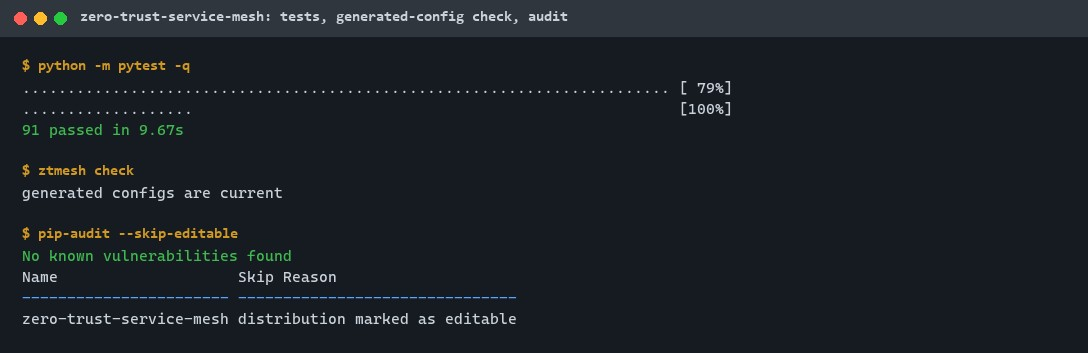
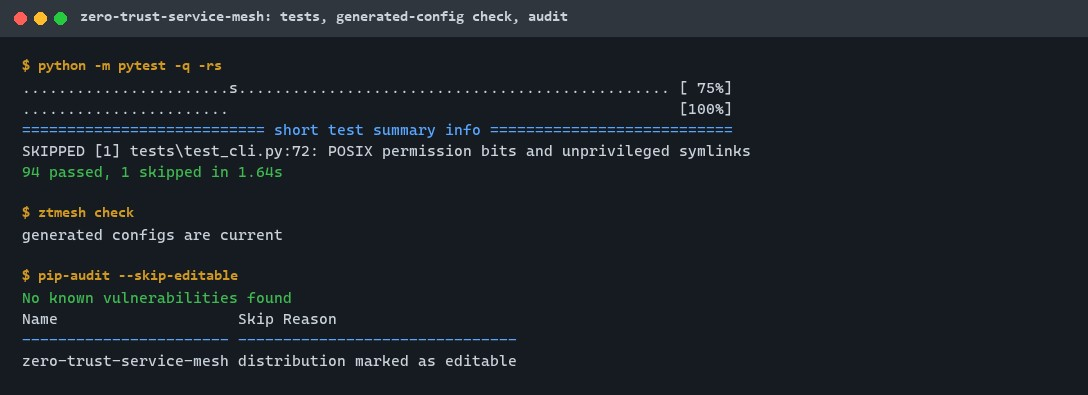
fix(security): random temp files for atomic writes and Envoy admin on a private Unix socket

diff --git a/tests/test_render.py b/tests/test_render.py
@@ -6,7 +6,13 @@ from typing import Any
 
 import pytest
 
-from zero_trust_service_mesh.envoy import AGENT_SOCKET, bootstrap, tls_context
+from zero_trust_service_mesh.envoy import (
+    ADMIN_DIR,
+    ADMIN_SOCKET,
+    AGENT_SOCKET,
+    bootstrap,
+    tls_context,
+)
 from zero_trust_service_mesh.k8s import IMAGES, spire_manifests, workload_manifests
 from zero_trust_service_mesh.mesh import load_spec
 from zero_trust_service_mesh.render import render, stale_files, write_all
@@ -75,7 +81,30 @@ def test_frontend_outbound_is_local_only_and_verifies_the_backend_id() -> None:
         "match_typed_subject_alt_names"
     ]
     assert [s["matcher"]["exact"] for s in sans] == ["spiffe://mesh.example/ns/demo/sa/backend"]
-    assert cfg["admin"]["address"]["socket_address"]["address"] == "127.0.0.1"
+
+
+def test_envoy_admin_is_a_unix_socket_only_the_envoy_container_mounts() -> None:
+    doc = workload_manifests(SPEC)
+    for w in SPEC.workloads:
+        admin = bootstrap(SPEC, w)["admin"]["address"]
+        assert "socket_address" not in admin, (
+            "admin must not listen on TCP (the app shares the pod network)"
+        )
+        assert admin["pipe"] == {"path": ADMIN_SOCKET, "mode": 0o600}
+        dep = next(
+            i for i in doc["items"] if i["kind"] == "Deployment" and i["metadata"]["name"] == w.name
+        )
+        for c in dep["spec"]["template"]["spec"]["containers"]:
+            mounts = {m["mountPath"] for m in c.get("volumeMounts", [])}
+            assert (ADMIN_DIR in mounts) == (c["name"] == "envoy"), c["name"]
+
+
+def test_backend_reports_the_peer_certificate_expiry_for_the_kind_check() -> None:
+    [listener] = bootstrap(SPEC, SPEC.get("backend"))["static_resources"]["listeners"]
+    hcm = listener["filter_chains"][0]["filters"][0]["typed_config"]
+    route = hcm["route_config"]["virtual_hosts"][0]["routes"][0]
+    headers = {h["header"]["key"]: h["header"]["value"] for h in route["response_headers_to_add"]}
+    assert headers["x-peer-cert-not-after"] == "%DOWNSTREAM_PEER_CERT_V_END%"
 
 
 def test_every_tls_context_and_sds_points_at_the_spire_agent_socket() -> None:

diff --git a/tests/test_cli.py b/tests/test_cli.py
@@ -1,6 +1,8 @@
 """The ztmesh command: exit codes, decision log and argument errors."""
 
 import json
+import os
+import stat
 from pathlib import Path
 
 import pytest
@@ -55,3 +57,26 @@ def test_write_atomic_cleans_up_when_the_rename_fails(tmp_path: Path) -> None:
     with pytest.raises(OSError):  # noqa: PT011 - the error differs by OS (IsADirectory, PermissionError)
         write_atomic(target, b"data")
     assert sorted(p.name for p in tmp_path.iterdir()) == ["dir"]
+
+
+def test_write_atomic_never_reuses_a_predictable_temp_name(tmp_path: Path) -> None:
+    target = tmp_path / "f.key"
+    planted = tmp_path / f".{target.name}.{os.getpid()}.tmp"
+    planted.write_bytes(b"planted")
+    write_atomic(target, b"secret", mode=0o600)
+    assert target.read_bytes() == b"secret"
+    assert planted.read_bytes() == b"planted"
+    assert sorted(p.name for p in tmp_path.iterdir()) == sorted([target.name, planted.name])
+
+
+@pytest.mark.skipif(os.name == "nt", reason="POSIX permission bits and unprivileged symlinks")
+def test_write_atomic_applies_the_mode_and_does_not_follow_symlinks(tmp_path: Path) -> None:
+    victim = tmp_path / "victim"
+    victim.write_bytes(b"untouched")
+    target = tmp_path / "f.key"
+    (tmp_path / f".{target.name}.{os.getpid()}.tmp").symlink_to(victim)
+    write_atomic(target, b"secret", mode=0o600)
+    assert victim.read_bytes() == b"untouched"
+    assert stat.S_IMODE(target.stat().st_mode) == 0o600
+    write_atomic(target, b"public", mode=0o644)
+    assert stat.S_IMODE(target.stat().st_mode) == 0o644

diff --git a/src/zero_trust_service_mesh/envoy.py b/src/zero_trust_service_mesh/envoy.py
@@ -7,7 +7,8 @@ from typing import Any
 from .mesh import MeshSpec, Workload
 
 AGENT_SOCKET = "/run/spire/sockets/agent.sock"
-ADMIN_PORT = 9901
+ADMIN_DIR = "/var/run/envoy-admin"
+ADMIN_SOCKET = f"{ADMIN_DIR}/admin.sock"
 SPIRE_CLUSTER = "spire_agent"
 T = "type.googleapis.com/envoy."
 
@@ -106,6 +107,7 @@ def inbound_listener(spec: MeshSpec, w: Workload) -> dict[str, Any]:
         "response_headers_to_add": [
             {"header": {"key": "x-peer-spiffe-id", "value": "%DOWNSTREAM_PEER_URI_SAN%"}},
             {"header": {"key": "x-local-spiffe-id", "value": "%DOWNSTREAM_LOCAL_URI_SAN%"}},
+            {"header": {"key": "x-peer-cert-not-after", "value": "%DOWNSTREAM_PEER_CERT_V_END%"}},
         ],
     }
     return {
@@ -171,6 +173,8 @@ def bootstrap(spec: MeshSpec, w: Workload) -> dict[str, Any]:
         clusters.append(clu)
     return {
         "node": {"id": w.name, "cluster": w.name},
-        "admin": {"address": _addr("127.0.0.1", ADMIN_PORT)},
+        # Admin on a Unix socket in a volume only the envoy container mounts: the app container
+        # shares the pod network and could otherwise reach the unauthenticated admin API.
+        "admin": {"address": {"pipe": {"path": ADMIN_SOCKET, "mode": 0o600}}},
         "static_resources": {"listeners": listeners, "clusters": clusters},
     }

diff --git a/src/zero_trust_service_mesh/k8s.py b/src/zero_trust_service_mesh/k8s.py
@@ -5,7 +5,7 @@ from __future__ import annotations
 import json
 from typing import Any
 
-from .envoy import bootstrap
+from .envoy import ADMIN_DIR, bootstrap
 from .mesh import MeshSpec, Workload
 from .spire import HEALTH_PORT, SERVER_PORT, agent_conf, server_conf
 
@@ -307,6 +307,7 @@ def _deployment(spec: MeshSpec, w: Workload) -> dict[str, Any]:
             "securityContext": _hardened(101),
             "volumeMounts": [
                 {"name": "envoy", "mountPath": "/etc/envoy", "readOnly": True},
+                {"name": "envoy-admin", "mountPath": ADMIN_DIR},
                 {"name": "spire-sockets", "mountPath": SOCKET_DIR, "readOnly": True},
             ],
         }
@@ -328,6 +329,7 @@ def _deployment(spec: MeshSpec, w: Workload) -> dict[str, Any]:
         "containers": containers,
         "volumes": [
             {"name": "envoy", "configMap": {"name": f"envoy-{w.name}"}},
+            {"name": "envoy-admin", "emptyDir": {"medium": "Memory", "sizeLimit": "1Mi"}},
             {"name": "spire-sockets", "hostPath": {"path": SOCKET_DIR, "type": "Directory"}},
         ],
     }

diff --git a/src/zero_trust_service_mesh/files.py b/src/zero_trust_service_mesh/files.py
@@ -4,16 +4,19 @@ from __future__ import annotations
 
 import contextlib
 import os
+import tempfile
 from pathlib import Path
 
 
 def write_atomic(path: Path, data: bytes, mode: int = 0o644) -> None:
-    """Write data to a sibling temp file, fsync it, then rename it over path."""
+    """Write data to a fresh, unpredictable sibling temp file, fsync it, then rename it over path."""
     path.parent.mkdir(parents=True, exist_ok=True)
-    tmp = path.with_name(f".{path.name}.{os.getpid()}.tmp")
-    fd = os.open(tmp, os.O_WRONLY | os.O_CREAT | os.O_TRUNC | getattr(os, "O_BINARY", 0), mode)
+    # mkstemp creates the file with O_EXCL (owner-only, never through an existing name or symlink).
+    fd, name = tempfile.mkstemp(dir=path.parent, prefix=f".{path.name}.", suffix=".tmp")
+    tmp = Path(name)
     try:
         with os.fdopen(fd, "wb") as f:
+            os.chmod(tmp, mode)
             f.write(data)
             f.flush()
             os.fsync(f.fileno())

diff --git a/docs/quality/2026-11-01.md b/docs/quality/2026-11-01.md
@@ -7,14 +7,14 @@ script that restored each file right after its pytest run (`.tmp/mutate.py`, not
 | # | Rule | Status | Evidence |
 |---|---|---|---|
 | 1 | Assume every call can fail | pass | Every socket has a timeout (`connect`: 0 to 60 s, default 5 s) and the server thread is joined with a bound; TLS, SVID and socket errors become a recorded `deny` with the reason, never a silent pass. Envoy clusters have connect timeouts (1 s, 2 s) and route timeouts (5 s, 10 s request), no retries. Every `kubectl`/`curl` in `e2e.sh` and `register.sh` is wrapped in `timeout` or `--max-time`, and every wait loop is bounded. |
-| 2 | Writes safe to retry | pass | Files are written to a sibling temp file, fsynced and renamed (`files.write_atomic`); a test checks the temp file is removed when the rename fails. `ztmesh render` only rewrites changed files and a second run changes nothing (tested). `register.sh` treats an existing entry as success; the kind job runs it twice. |
+| 2 | Writes safe to retry | pass | Files are written to a fresh `mkstemp` temp file (random name, `O_EXCL`, so no planted file or symlink is reused; fixed after the 2026-11-10 security review), fsynced and renamed (`files.write_atomic`); a test checks the temp file is removed when the rename fails. `ztmesh render` only rewrites changed files and a second run changes nothing (tested). `register.sh` treats an existing entry as success; the kind job runs it twice. |
 | 3 | No race conditions | pass | `connect` binds the listener before starting the server thread, so the client cannot connect early; results pass through a list read only after `join`. Each test gets its own temp directory. |
 | 4 | Don't trust the clock | pass | Durations use `time.monotonic`; stored times are UTC with a `Z` suffix; `ca.py` rejects naive or non-UTC timestamps and `verify_svid` rejects naive times. SVIDs are backdated 10 s for clock skew but never before the CA. |
 | 5 | Read before changing | pass | No environment variables are read by the package; the CLI documents every flag (`--help`). The scaffold's README order and CI pins were kept. |
 | 6 | Never break compatibility | N/A | First release; the spec format is new. Unknown keys are rejected so a future field cannot be silently ignored. |
 | 7 | One source of truth | pass | `deploy/mesh.json` generates every SPIRE, Envoy and Kubernetes file; `ztmesh check` (in tests, CI and `check.sh`) fails on drift. The agent socket path is one constant shared by the agent config, Envoy and the manifests. |
-| 8 | Small changes, no secrets, validate input | pass | No keys or tokens are committed; keys exist only in temp directories during a run, written owner-only. The spec is size-bounded (1 MiB), strictly typed, and every cross reference is checked; SPIFFE IDs follow the spec; values quoted into HCL are refused if they contain quotes, backslashes, `$` or newlines. |
-| 9 | Tests that can actually fail | pass | Empty, invalid and failure paths are covered (no-SAN and multi-SAN certificates, expired, rogue CA, missing files, bad JSON). 12 of 12 hand mutations killed, none survived. |
+| 8 | Small changes, no secrets, validate input | pass | The Envoy admin API is on a Unix socket only the envoy container mounts, not on 127.0.0.1 where the app container could reach it (fixed after the 2026-11-10 security review). No keys or tokens are committed; keys exist only in temp directories during a run, written owner-only. The spec is size-bounded (1 MiB), strictly typed, and every cross reference is checked; SPIFFE IDs follow the spec; values quoted into HCL are refused if they contain quotes, backslashes, `$` or newlines. |
+| 9 | Tests that can actually fail | pass | Empty, invalid and failure paths are covered (no-SAN and multi-SAN certificates, expired, rogue CA, missing files, bad JSON). 14 of 14 hand mutations killed, none survived. |
 | 10 | Re-verify | pass | `.tmp/check.sh` run twice, both `CHECK PASS`; `audit_repo.py` OK. |
 
 ## Mutation table
@@ -33,15 +33,17 @@ script that restored each file right after its pytest run (`.tmp/mutate.py`, not
 | `envoy.inbound_listener` | `require_client_certificate: false` | yes | `test_backend_inbound_requires_client_certificates_from_frontend_only` |
 | `SpiffeId.__post_init__` | `.` and `..` segments accepted | yes | `test_invalid_ids_are_rejected` |
 | `parse_spec` | caller missing from upstream's `allowed_callers` accepted | yes | `test_bad_specs_are_rejected` |
+| `write_atomic` | predictable temp name opened without `O_EXCL` (the pre-fix code) | yes | `test_write_atomic_never_reuses_a_predictable_temp_name` |
+| `envoy.bootstrap` | admin back on TCP 127.0.0.1:9901 (the pre-fix config) | yes | `test_envoy_admin_is_a_unix_socket_only_the_envoy_container_mounts`, `test_committed_generated_files_are_current` |
 
-Mutation score: 12 / 12 killed. Each file was restored right after its run, and the full suite
-(91 passed) and `ztmesh check` were re-run afterwards.
+Mutation score: 14 / 14 killed. Each file was restored right after its run, and the full suite
+(94 passed, 1 POSIX-only skipped) and `ztmesh check` were re-run afterwards.
 
 ## Re-verify
 
 | Command | Result |
 |---|---|
-| `pytest -q` | `91 passed` |
+| `pytest -q` | `94 passed, 1 skipped` |
 | `ruff check`, `ruff format --check`, `mypy` | `All checks passed!`, `25 files already formatted`, `Success: no issues found in 22 source files` |
 | `ztmesh check`, `ztmesh demo` | `generated configs are current`, `6/6 scenarios as expected` |
 | `pip-audit` | `No known vulnerabilities found` |

diff --git a/docs/results/m1.md b/docs/results/m1.md
@@ -14,7 +14,9 @@ make audit                              # pip-audit
 bash .tmp/check.sh                      # all of the above; prints CHECK PASS (run twice: both passed)
 ```
 
-## Tests: 91 passed, 0 failed, 0 skipped
+## Tests: 94 passed, 1 skipped (POSIX only), 0 failed
+
+The skipped test checks file modes and a planted symlink, which need POSIX; CI on Ubuntu runs it.
 
 | File | Tests | What it proves |
 |---|---|---|
@@ -23,8 +25,8 @@ bash .tmp/check.sh                      # all of the above; prints CHECK PASS (r
 | `test_attestation.py` | 8 | SPIRE matching: registered pods get their ID; unregistered service account, wrong namespace and entries under another agent get nothing; extra selectors do not block a match; entry validation; exact `spire-server entry create` arguments |
 | `test_ca_verify.py` | 9 | SVIDs verify and carry a 1 h lifetime; rejected after expiry and before start; never outlive the CA; issuance refusals; rogue CA with the same trust domain name rejected; foreign trust domain; empty bundle; X509-SVID profile (no SAN, two URI SANs, wrong scheme, bare trust domain, CA leaf, keyCertSign); peer policy |
 | `test_mtls.py` | 5 | Real TLS 1.3 on 127.0.0.1: both sides see the other's SPIFFE ID; a client without a certificate is refused in the handshake; key files written, no temp files left; argument checks; all six demo scenarios end as expected |
-| `test_render.py` | 13 | Committed generated files are current; rendering is idempotent; backend inbound requires client certs and accepts only frontend's ID; frontend outbound listens on 127.0.0.1 only and accepts only backend's ID; every SDS reference uses the agent socket; non-local listeners always have TLS; SPIRE configs carry the spec values; HCL injection refused; register script covers registered workloads only; images pinned by digest; limits and no privilege escalation everywhere; no service account tokens in workloads; bundle Role limited to one ConfigMap |
-| `test_cli.py` | 5 | `render` / `check` exit codes; `demo` writes 12 JSON decision records with UTC times; exit 2 on bad specs and unknown workloads; atomic writes replace whole files and clean up on failure |
+| `test_render.py` | 15 | Envoy admin is a Unix socket (mode 0600) in a volume only the envoy container mounts, never TCP; the backend reports the peer certificate's expiry in a response header; committed generated files are current; rendering is idempotent; backend inbound requires client certs and accepts only frontend's ID; frontend outbound listens on 127.0.0.1 only and accepts only backend's ID; every SDS reference uses the agent socket; non-local listeners always have TLS; SPIRE configs carry the spec values; HCL injection refused; register script covers registered workloads only; images pinned by digest; limits and no privilege escalation everywhere; no service account tokens in workloads; bundle Role limited to one ConfigMap |
+| `test_cli.py` | 7 | atomic writes never reuse a predictable temp name (a planted file survives untouched) and, on POSIX, never follow a planted symlink and apply the requested mode; `render` / `check` exit codes; `demo` writes 12 JSON decision records with UTC times; exit 2 on bad specs and unknown workloads; atomic writes replace whole files and clean up on failure |
 | `test_smoke.py` | 1 | Package version |
 
 Lint and types: `ruff check` clean, `ruff format --check` 25 files formatted, `mypy --strict`
@@ -56,6 +58,21 @@ decision log as `elapsed_ms`); this is a functional check, not a benchmark.
 - The register script failed on a second run in principle (`entry create` on an existing entry);
   it now treats "already exists" as success, and the kind job runs it twice.
 
+## Security review fixes (2026-11-10)
+
+An automated security review raised two findings, both fixed with a regression test that fails
+when the fix is reverted:
+
+- `files.write_atomic` used a predictable temp name opened without `O_EXCL`, so a planted file or
+  symlink could be reused. It now uses `tempfile.mkstemp` in the target directory (`O_EXCL`,
+  random name, owner-only) and then applies the requested mode.
+- The Envoy admin API listened on 127.0.0.1:9901, reachable without authentication from the app
+  container in the same pod. It now listens on a Unix socket (`/var/run/envoy-admin/admin.sock`,
+  mode 0600) in a memory `emptyDir` mounted only into the envoy container. The kind check that read
+  the SVID expiry from admin `/certs` now reads it from the backend's
+  `x-peer-cert-not-after: %DOWNSTREAM_PEER_CERT_V_END%` response header, and a new kind step checks
+  the app container cannot reach admin.
+
 ## Control
 
 CI on every push: lint, types, tests, `ztmesh check`, the demo, `pip-audit`, `envoy --mode
@@ -66,7 +83,8 @@ validate`, and the kind end-to-end job. Images are pinned by digest, actions by 
 - `envoy --mode validate` of the three generated bootstraps (Envoy v1.39.5).
 - The kind job (kind v0.33.0, Kubernetes v1.37.0, SPIRE 1.15.5, Envoy v1.39.5): SPIRE server and
   agent ready; entries registered twice; frontend -> backend returns 200 with both SPIFFE IDs in
-  response headers; the frontend SVID loaded by Envoy expires within 3600 s; the intruder's
+  response headers; the frontend SVID, as received by the backend's Envoy in the handshake, expires within 3600 s;
+  the app container reaches no Envoy admin port or socket; the intruder's
   sidecar gets no SVID and 5 of 5 calls fail; TLS without a client certificate and plain HTTP to
   the backend's port are refused.
 

diff --git a/README.md b/README.md
@@ -16,7 +16,7 @@ list, and a server presenting the wrong identity):
 
 ![ztmesh demo: one allowed and five refused mTLS connections](docs/proof/demo.jpg)
 
-91 tests pass locally, the generated SPIRE, Envoy and Kubernetes files match the spec, and the
+94 tests pass locally (1 POSIX-only test is skipped on Windows), the generated SPIRE, Envoy and Kubernetes files match the spec, and the
 dependency audit is clean:
 
 ![pytest, ztmesh check and pip-audit output](docs/proof/tests.jpg)
@@ -103,7 +103,7 @@ Language: **Python** (3.11+). Code in [`src/zero_trust_service_mesh/`](src/zero_
 python -m venv .venv && source .venv/bin/activate   # Windows: .venv\Scripts\activate
 make setup     # install the package and dev tools
 make lint      # ruff, ruff format, mypy --strict
-make test      # 91 tests
+make test      # 95 tests (94 run on Windows; 1 is POSIX-only)
 make check     # generated configs match deploy/mesh.json
 make demo      # one allowed and five refused mTLS connections; decision log in .tmp/
 make audit     # pip-audit
@@ -131,15 +131,15 @@ and the mutation table are in [docs/quality/2026-11-01.md](docs/quality/2026-11-
 | `test_attestation.py` | 8 | SPIRE matching: only a registered namespace + service account under the right agent gets an ID |
 | `test_ca_verify.py` | 9 | 1 h SVIDs that never outlive the CA; expired, not-yet-valid, rogue-CA, foreign and malformed SVIDs rejected |
 | `test_mtls.py` | 5 | Real TLS 1.3 on 127.0.0.1: both IDs proven; no client certificate refused; all six demo scenarios as expected |
-| `test_render.py` | 13 | Client certificates required, exact SPIFFE ID matchers, SDS on the agent socket, images by digest, limits, no tokens, least-privilege RBAC, committed files current |
-| `test_cli.py` | 5 | Exit codes, decision log (12 JSON records, UTC), atomic writes |
+| `test_render.py` | 15 | Client certificates required, Envoy admin only on a Unix socket the app container cannot see, exact SPIFFE ID matchers, SDS on the agent socket, images by digest, limits, no tokens, least-privilege RBAC, committed files current |
+| `test_cli.py` | 7 | Exit codes, decision log (12 JSON records, UTC), atomic writes with unpredictable temp names (no planted file or symlink is reused) and the requested mode |
 | `test_smoke.py` | 1 | Package version |
 
 | Check | Result |
 |---|---|
-| Tests (`make test`) | **91 passed**, 0 failed, 0 skipped |
+| Tests (`make test`) | **94 passed**, 0 failed, 1 skipped on Windows (POSIX symlink and mode test, runs in CI) |
 | Demo | 6 of 6 scenarios as expected: 1 allowed, 5 refused |
-| Mutation testing | 12 of 12 hand mutations killed |
+| Mutation testing | 14 of 14 hand mutations killed |
 | Lint / types / audit | ruff and mypy `--strict` clean; `pip-audit`: no known vulnerabilities |
 | CI only (not run yet) | `envoy --mode validate` of the 3 bootstraps; kind e2e with real SPIRE and Envoy |
 
@@ -193,7 +193,8 @@ the cluster test runs only in a disposable kind cluster in CI. No real secrets a
 - Every GitHub Action is pinned to a commit SHA and every container image by digest; workflows
   run read-only, without persisted credentials.
 - Containers run with limits, a read-only root filesystem and no privilege escalation; workload
-  pods get no service account token; the SPIRE server runs as uid 1000 and may update only the
+  pods get no service account token; the Envoy admin API listens only on a Unix socket in a
+  volume the app container does not mount; the SPIRE server runs as uid 1000 and may update only the
   `spire-bundle` ConfigMap.
 - Dependabot update pull requests are paused (`open-pull-requests-limit: 0`) so the repository
   keeps a single `main` branch; dependencies are updated by hand and checked by the CI audit.

diff --git a/docs/rfc/0001-design.md b/docs/rfc/0001-design.md
@@ -38,9 +38,9 @@ Envoy mutual-TLS setup, and engineers preparing for "design service-to-service a
 | A workload without a registration entry gets no SVID and no connection | 100% refused | attestation tests; demo scenario 2; kind e2e (intruder, 5 of 5 attempts) |
 | A forged, expired or foreign SVID is refused | 100% refused | CA/verify tests; demo scenarios 3 and 4 |
 | A valid identity that is not an allowed peer is refused, on both sides | 100% refused | demo scenarios 5 and 6; Envoy SAN matchers (render tests) |
-| SVID lifetime | at most 3600 s | spec validation; CA cap; kind e2e reads the SVID from Envoy `/certs` |
+| SVID lifetime | at most 3600 s | spec validation; CA cap; kind e2e reads the SVID expiry the backend's Envoy saw in the handshake |
 | Generated configs match the spec | 0 stale files | `ztmesh check` in tests, CI and `.tmp/check.sh` |
-| Test suite can fail | every hand mutation killed | `docs/quality/2026-11-01.md` (12 of 12) |
+| Test suite can fail | every hand mutation killed | `docs/quality/2026-11-01.md` (14 of 14) |
 
 ## Non-goals (M1)
 
@@ -67,7 +67,8 @@ deploy/mesh.json --ztmesh render--> deploy/generated/
   bundle (`spiffe://<td>`) from the SPIRE agent's SDS API on `/run/spire/sockets/agent.sock`.
   Inbound listeners require a client certificate and accept only the SPIFFE IDs listed in
   `allowed_callers`; outbound clusters accept only the upstream's SPIFFE ID. TLS 1.3 minimum.
-  The app talks plain HTTP to its sidecar on 127.0.0.1 only.
+  The app talks plain HTTP to its sidecar on 127.0.0.1 only. Envoy's admin API is not on the pod
+  network: it listens on a Unix socket in a volume that only the envoy container mounts.
 - **Local reference model.** `attestation.py` reproduces SPIRE's matching rule (all entry
   selectors must be discovered, under the right parent); `ca.py` issues SVIDs as the SPIRE server
   CA does; `verify.py` runs RFC 5280 path validation (`cryptography`) plus the X509-SVID rules
@@ -85,7 +86,7 @@ deploy/mesh.json --ztmesh render--> deploy/generated/
 
 ## Measurement plan
 
-- Local: `pytest` (91 tests), `ztmesh check`, `ztmesh demo` with its JSON-lines decision log,
+- Local: `pytest` (95 tests, 1 POSIX-only), `ztmesh check`, `ztmesh demo` with its JSON-lines decision log,
   hand mutations of the core checks.
 - CI: `envoy --mode validate` on every generated bootstrap; a kind cluster runs SPIRE and the
   sidecars and checks: frontend reaches backend with both IDs seen, the SVID in Envoy expires

diff --git a/docs/adr/0002-local-reference-model-plus-kind.md b/docs/adr/0002-local-reference-model-plus-kind.md
@@ -24,7 +24,7 @@ Both layers read the same spec, and the configs for the cluster are generated fr
 ## Consequences
 
 - Edge cases (dot segments, several URI SANs, CA leaves, expiry, rogue CAs) are tested quickly
-  and deterministically; 12 of 12 hand mutations are killed locally.
+  and deterministically; 14 of 14 hand mutations are killed locally.
 - The model can drift from SPIRE. The kind job is the check, and the README says which claims
   are verified only there.
 - Two code paths to maintain: the model is kept small (about 700 lines in five modules) for that reason.
